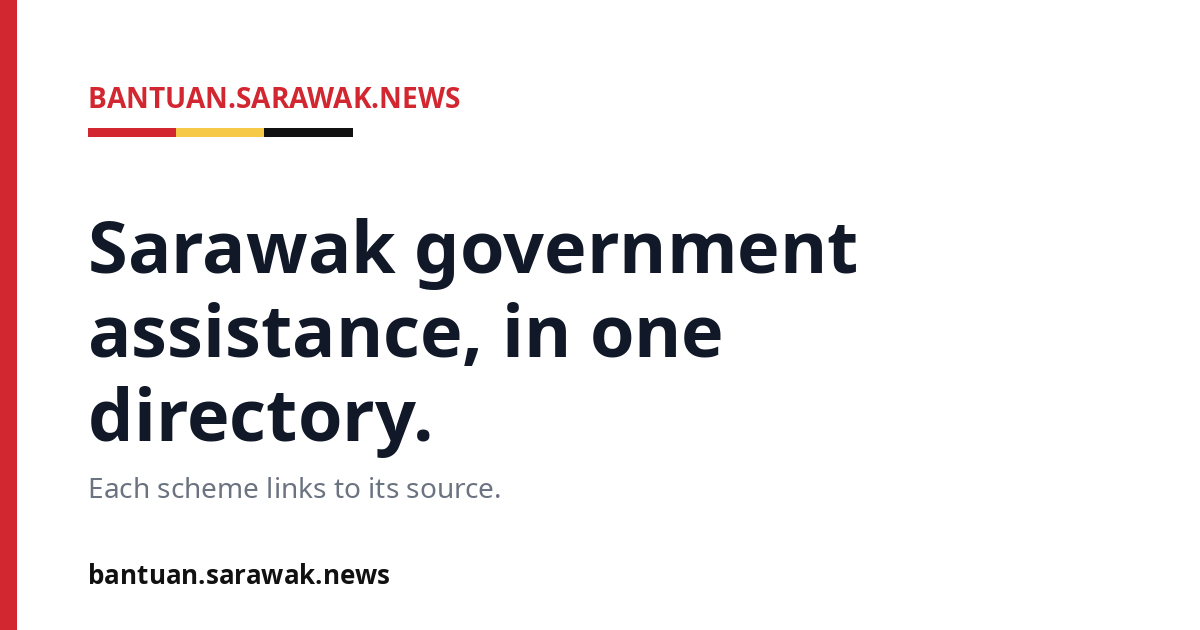
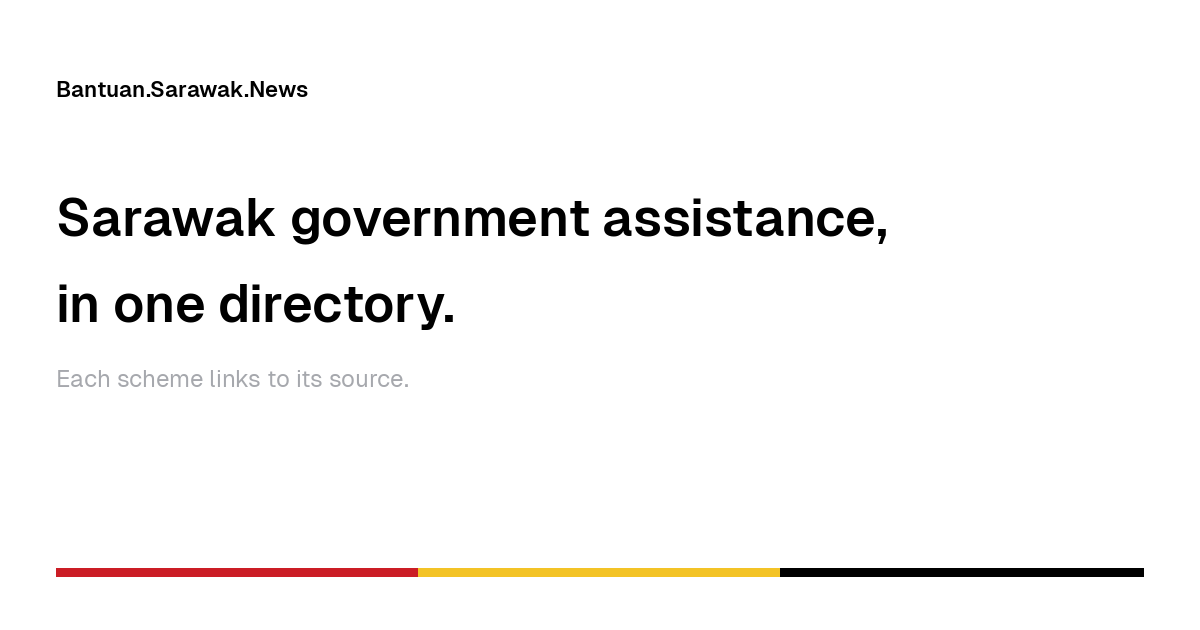
Use Design Bot social card and Geist render script
Replace the Noto-regenerated OG image with the approved Geist layout and
subtitle. Update render_social_card.py to require Geist (skipped in CI); the
committed PNG remains the source of truth.

Changed region(s): [[0.0, 0.0, 0.9558, 1.0], [0.0617, 0.754, 0.4008, 0.8143]]

diff --git a/scripts/render_social_card.py b/scripts/render_social_card.py
@@ -1,8 +1,11 @@
 #!/usr/bin/env python3
-"""Regenerate site/social-card.png. Requires Pillow. The build does not."""
+"""Regenerate site/social-card.png. Requires Pillow and Geist. The build does not."""
 
 from __future__ import annotations
 
+import glob
+import os
+import sys
 from pathlib import Path
 
 try:
@@ -12,38 +15,67 @@ except ImportError as error:
 
 ROOT = Path(__file__).resolve().parents[1]
 OUT = ROOT / "site" / "social-card.png"
-REGULAR = "/usr/share/fonts/truetype/noto/NotoSans-Regular.ttf"
-BOLD = "/usr/share/fonts/truetype/noto/NotoSans-Bold.ttf"
+SUBTITLE = "Each scheme links to its source."
 
-RED = (210, 38, 48)
-YELLOW = (247, 201, 72)
-BLACK = (17, 17, 17)
-INK = (17, 24, 39)
-MUTED = (107, 114, 128)
+W, H = 1200, 630
+MARGIN_X = 56
+RED = (203, 29, 37)
+YELLOW = (243, 195, 38)
+BLACK = (0, 0, 0)
+INK = (0, 0, 0)
+MUTED = (166, 168, 173)
 WHITE = (255, 255, 255)
 
 
+def find_geist() -> Path:
+    roots: list[Path] = []
+    if os.environ.get("GEIST_FONTS"):
+        roots.append(Path(os.environ["GEIST_FONTS"]))
+    roots.append(ROOT / "node_modules" / "geist" / "dist" / "fonts")
+    roots.extend(Path(p) for p in glob.glob(os.path.expanduser("~/.bun/install/cache/geist@*/dist/fonts")))
+    for root in roots:
+        regular = root / "geist-sans" / "Geist-Regular.ttf"
+        if regular.is_file():
+            return root
+    raise SystemExit(
+        "Geist fonts not found. Install with `npm i geist` in the repo root, "
+        "or set GEIST_FONTS to a directory containing geist-sans/Geist-*.ttf. "
+        "CI does not regenerate the card; site/social-card.png is the source of truth."
+    )
+
+
+def load_fonts(geist: Path) -> tuple[ImageFont.FreeTypeFont, ImageFont.FreeTypeFont, ImageFont.FreeTypeFont]:
+    sans = geist / "geist-sans"
+    brand = ImageFont.truetype(sans / "Geist-SemiBold.ttf", 22)
+    title = ImageFont.truetype(sans / "Geist-SemiBold.ttf", 52)
+    body = ImageFont.truetype(sans / "Geist-Regular.ttf", 24)
+    return brand, title, body
+
+
+def draw_bar(draw: ImageDraw.ImageDraw) -> None:
+    y0, y1 = 568, 576
+    draw.rectangle((MARGIN_X, y0, 418, y1), fill=RED)
+    draw.rectangle((418, y0, 780, y1), fill=YELLOW)
+    draw.rectangle((780, y0, 1143, y1), fill=BLACK)
+
+
 def main() -> None:
-    image = Image.new("RGB", (1200, 630), WHITE)
+    geist = find_geist()
+    brand, title, body = load_fonts(geist)
+
+    image = Image.new("RGB", (W, H), WHITE)
     draw = ImageDraw.Draw(image)
-    draw.rectangle((0, 0, 16, 630), fill=RED)
-    bold = ImageFont.truetype(BOLD, 28)
-    title = ImageFont.truetype(BOLD, 72)
-    body = ImageFont.truetype(REGULAR, 28)
-    small = ImageFont.truetype(BOLD, 26)
 
-    draw.text((88, 78), "BANTUAN.SARAWAK.NEWS", font=bold, fill=RED)
-    draw.rectangle((88, 128, 176, 136), fill=RED)
-    draw.rectangle((176, 128, 264, 136), fill=YELLOW)
-    draw.rectangle((264, 128, 352, 136), fill=BLACK)
+    draw.text((MARGIN_X, 76), "Bantuan.Sarawak.News", font=brand, fill=INK)
 
-    y = 196
-    for line in ("Sarawak government", "assistance, in one", "directory."):
-        draw.text((88, y), line, font=title, fill=INK)
-        y += 84
+    y = 188
+    for line in ("Sarawak government assistance,", "in one directory."):
+        draw.text((MARGIN_X, y), line, font=title, fill=INK)
+        y += 86
 
-    draw.text((88, 468), "Each scheme links to its source.", font=body, fill=MUTED)
-    draw.text((88, 556), "bantuan.sarawak.news", font=small, fill=BLACK)
+    draw.text((MARGIN_X, 364), SUBTITLE, font=body, fill=MUTED)
+    draw_bar(draw)
+
     image.save(OUT, "PNG")
     print(f"Wrote {OUT}")
 

diff --git a/README.md b/README.md
@@ -44,7 +44,7 @@ python3 -m unittest discover -s tests -v
 - `site/style.css` and `site/app.js` — visual design, dark mode and the menu
 - `site/social-card.png` — Open Graph image, 1200×630
 
-`scripts/render_social_card.py` can redraw the card when Pillow and Noto Sans are installed. The site build only copies the PNG.
+`scripts/render_social_card.py` can redraw the card when Pillow and Geist are installed. The site build only copies the PNG.
 
 ## GitHub Pages
 
